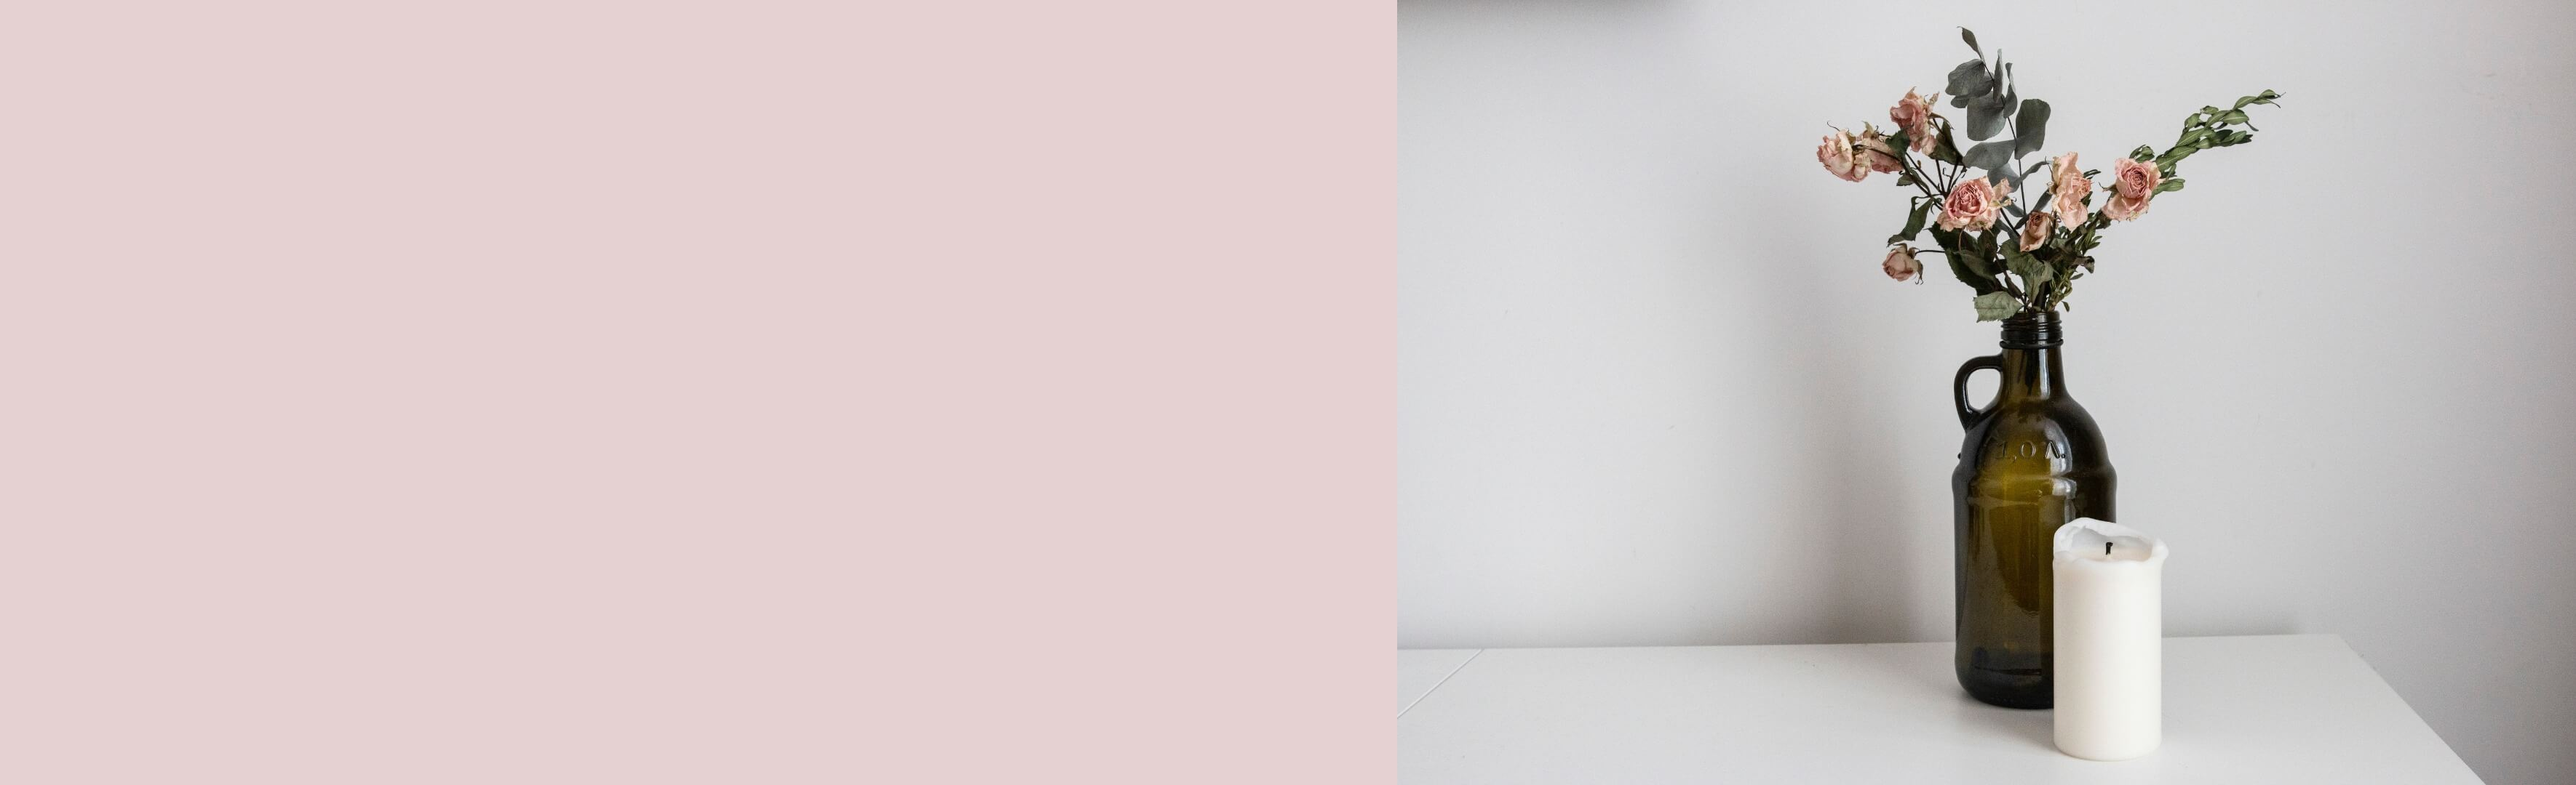
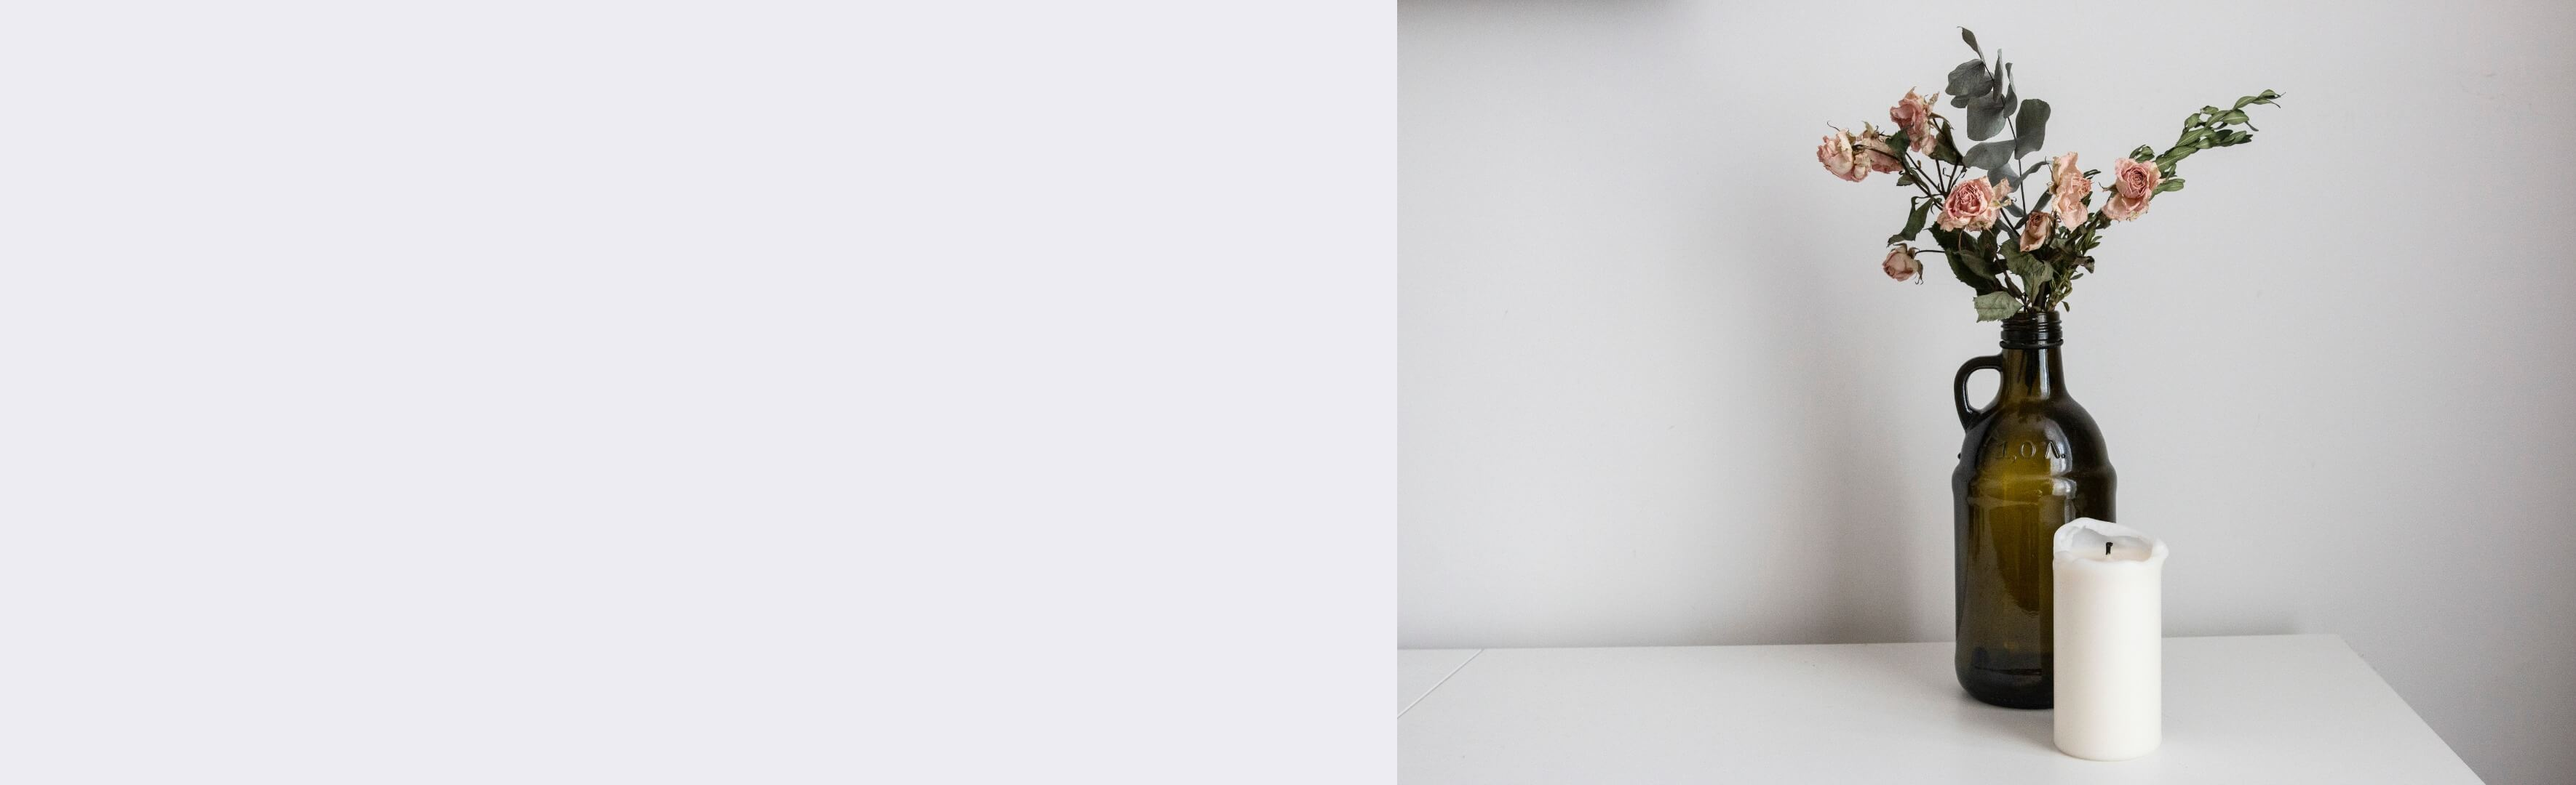
Contrast styling updates

diff --git a/index.html b/index.html
@@ -15,7 +15,7 @@
 <body>
 	<header>
 		<nav class="navbar navbar-expand-lg navbar-cus navbar-light navbar-fixed-top">
-			<a class="navbar-brand" href="index.html"></a>
+			<a class="navbar-brand" aria-label="Logo" href="index.html"></a>
 			<button class="navbar-toggler" type="button" data-toggle="collapse" data-target="#navbarSupportedContent" aria-controls="navbarSupportedContent" aria-expanded="false" aria-label="Toggle navigation"> <span class="navbar-toggler-icon"> </span> </button>
 			<div class="collapse navbar-collapse" id="navbarSupportedContent">
 				<ul class="navbar-nav ml-auto">
@@ -137,10 +137,10 @@
 			</section>
            <section>
                <ul class="social-networks">
-                  <li><a href="https://www.facebook.com" target="_blank"> <i class="fab fa-facebook"> </i></a></li>
-                  <li><a href="https://www.twitter.com" target="_blank"> <i class="fab fa-twitter-square"> </i></a></li>
-                  <li><a href="https://www.youtube.com" target="_blank"> <i class="fab fa-youtube-square"> </i></a></li>
-                  <li><a href="https://www.instagram.com" target="_blank"> <i class="fab fa-instagram"> </i></a></li>
+                  <li><a href="https://www.facebook.com" aria-label="Facebook Link" target="_blank"> <i class="fab fa-facebook"> </i></a></li>
+                  <li><a href="https://www.twitter.com" aria-label="Twitter Link" target="_blank"> <i class="fab fa-twitter-square"> </i></a></li>
+                  <li><a href="https://www.youtube.com" aria-label="YouTube Link" target="_blank"> <i class="fab fa-youtube-square"> </i></a></li>
+                  <li><a href="https://www.instagram.com" aria-label="Instagram Link" target="_blank"> <i class="fab fa-instagram"> </i></a></li>
                </ul>
             </section>
 		</div>

diff --git a/giftbox.html b/giftbox.html
@@ -15,7 +15,7 @@
 <body>
 	<header>
 		<nav class="navbar navbar-expand-lg navbar-cus navbar-light navbar-fixed-top">
-			<a class="navbar-brand" href="index.html"></a>
+			<a class="navbar-brand" aria-label="Logo" href="index.html"></a>
 			<button class="navbar-toggler" type="button" data-toggle="collapse" data-target="#navbarSupportedContent" aria-controls="navbarSupportedContent" aria-expanded="false" aria-label="Toggle navigation"> <span class="navbar-toggler-icon"></span> </button>
 			<div class="collapse navbar-collapse" id="navbarSupportedContent">
 				<ul class="navbar-nav ml-auto">
@@ -159,10 +159,10 @@
 			</form>
            <section>
                <ul class="social-networks">
-                  <li><a href="https://www.facebook.com" target="_blank"> <i class="fab fa-facebook"> </i></a></li>
-                  <li><a href="https://www.twitter.com" target="_blank"> <i class="fab fa-twitter-square"> </i></a></li>
-                  <li><a href="https://www.youtube.com" target="_blank"> <i class="fab fa-youtube-square"> </i></a></li>
-                  <li><a href="https://www.instagram.com" target="_blank"> <i class="fab fa-instagram"> </i></a></li>
+                  <li><a href="https://www.facebook.com" aria-label="Facebook Link" target="_blank"> <i class="fab fa-facebook"> </i></a></li>
+                  <li><a href="https://www.twitter.com" aria-label="Twitter Link" target="_blank"> <i class="fab fa-twitter-square"> </i></a></li>
+                  <li><a href="https://www.youtube.com" aria-label="YouTube Link" target="_blank"> <i class="fab fa-youtube-square"> </i></a></li>
+                  <li><a href="https://www.instagram.com" aria-label="Instagram Link" target="_blank"> <i class="fab fa-instagram"> </i></a></li>
                </ul>
             </section>
 		</div>

diff --git a/products.html b/products.html
@@ -15,7 +15,7 @@
 <body>
 	<header>
 		<nav class="navbar navbar-expand-lg navbar-cus navbar-light navbar-fixed-top">
-			<a class="navbar-brand" href="index.html"></a>
+			<a class="navbar-brand" aria-label="Logo" href="index.html"></a>
 			<button class="navbar-toggler" type="button" data-toggle="collapse" data-target="#navbarSupportedContent" aria-controls="navbarSupportedContent" aria-expanded="false" aria-label="Toggle navigation"> <span class="navbar-toggler-icon"></span> </button>
 			<div class="collapse navbar-collapse" id="navbarSupportedContent">
 				<ul class="navbar-nav ml-auto">
@@ -159,10 +159,10 @@
 			</form>
            <section>
                <ul class="social-networks">
-                  <li><a href="https://www.facebook.com" target="_blank"> <i class="fab fa-facebook"> </i></a></li>
-                  <li><a href="https://www.twitter.com" target="_blank"> <i class="fab fa-twitter-square"> </i></a></li>
-                  <li><a href="https://www.youtube.com" target="_blank"> <i class="fab fa-youtube-square"> </i></a></li>
-                  <li><a href="https://www.instagram.com" target="_blank"> <i class="fab fa-instagram"> </i></a></li>
+                  <li><a href="https://www.facebook.com" aria-label="Facebook Link" target="_blank"> <i class="fab fa-facebook"> </i></a></li>
+                  <li><a href="https://www.twitter.com" aria-label="Twitter Link" target="_blank"> <i class="fab fa-twitter-square"> </i></a></li>
+                  <li><a href="https://www.youtube.com" aria-label="YouTube Link" target="_blank"> <i class="fab fa-youtube-square"> </i></a></li>
+                  <li><a href="https://www.instagram.com" aria-label="Instagram Link" target="_blank"> <i class="fab fa-instagram"> </i></a></li>
                </ul>
             </section>
 		</div>

diff --git a/contact.html b/contact.html
@@ -15,7 +15,7 @@
 <body>
 	<header>
 		<nav class="navbar navbar-expand-lg navbar-cus navbar-light navbar-fixed-top">
-			<a class="navbar-brand" href="index.html"></a>
+			<a class="navbar-brand" aria-label="Logo" href="index.html"></a>
 			<button class="navbar-toggler" type="button" data-toggle="collapse" data-target="#navbarSupportedContent" aria-controls="navbarSupportedContent" aria-expanded="false" aria-label="Toggle navigation"> <span class="navbar-toggler-icon"></span> </button>
 			<div class="collapse navbar-collapse" id="navbarSupportedContent">
 				<ul class="navbar-nav ml-auto">
@@ -111,10 +111,10 @@
 
            <section>
                <ul class="social-networks">
-                  <li><a href="https://www.facebook.com" target="_blank"> <i class="fab fa-facebook"> </i></a></li>
-                  <li><a href="https://www.twitter.com" target="_blank"> <i class="fab fa-twitter-square"> </i></a></li>
-                  <li><a href="https://www.youtube.com" target="_blank"> <i class="fab fa-youtube-square"> </i></a></li>
-                  <li><a href="https://www.instagram.com" target="_blank"> <i class="fab fa-instagram"> </i></a></li>
+                  <li><a href="https://www.facebook.com" aria-label="Facebook Link" target="_blank"> <i class="fab fa-facebook"> </i></a></li>
+                  <li><a href="https://www.twitter.com" aria-label="Twitter Link" target="_blank"> <i class="fab fa-twitter-square"> </i></a></li>
+                  <li><a href="https://www.youtube.com" aria-label="YouTube Link" target="_blank"> <i class="fab fa-youtube-square"> </i></a></li>
+                  <li><a href="https://www.instagram.com" aria-label="Instagram Link" target="_blank"> <i class="fab fa-instagram"> </i></a></li>
                </ul>
             </section>
         </div>

diff --git a/assets/css/style.css b/assets/css/style.css
@@ -1,5 +1,5 @@
 body {
-     background-color: #FAE8E0;
+     background-color: #e3dae7;
      font-size: 20px !important;
      color: #444444;
      font-family: 'Karla', sans-serif;
@@ -22,7 +22,7 @@ body {
  .slider-text {
      font-size: 50px;
      font-weight: 500;
-     color: #915C67;
+     color: #714d69;
 }
  .carousel {
      margin-bottom: 4rem;
@@ -112,32 +112,33 @@ body {
     }
 }
  .navbar-cus {
-     background-color: #b69b9e
+     background-color: #714d69;
     
 }
 .active>.nav-link {
-    color: #FAE8E0 !important;
+    color: white !important;
 }
 .nav-link {
-    color:#915C67 !important;
+    color:white !important;
 }
 
 .navbar-toggler-icon{
     color: #915C67;
 }
  .footer {
-     background-color: #b69b9e;
+     background-color: #714d69;
  }
  
  .footer p {
      
-     color: #915C67;
+     color: white;
 }
 .form-label{
-    color: #915C67;
+    color: white;
 }
  .copyright {
      background-color: rgba(0, 0, 0, 0.2);
+     color:white;
 }
  .social-networks{
      text-align: center;
@@ -149,7 +150,7 @@ body {
      font-size: 160%;
      margin: 1%;
      padding: 1.5%;
-     color: #915C67;
+     color: white;
 }
  .card {
      box-shadow: 0 4px 8px 0 rgba(0,0,0,0.2);
@@ -174,7 +175,7 @@ body {
  .heading {
      font-size: 50px;
      font-weight: 400;
-     color: #915C67;
+     color: #714d69;
 }
  #product-text {
      color: #444444;
@@ -223,7 +224,7 @@ body {
      background-color: #FAE8E0;
 }
  .btn-light:hover {
-     color:#D8A7B1;
+     color:#b69b9e;
      background-color: white;
 }
  .image-container {
